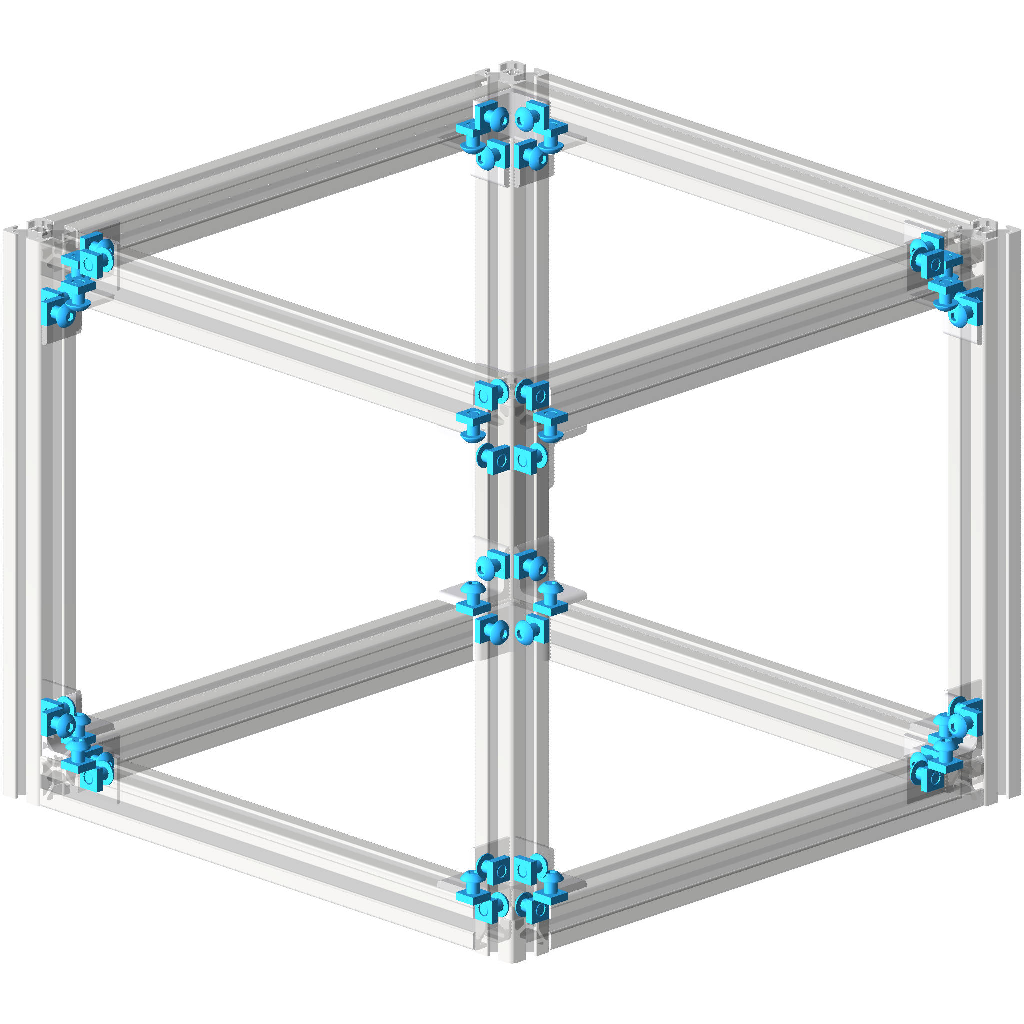
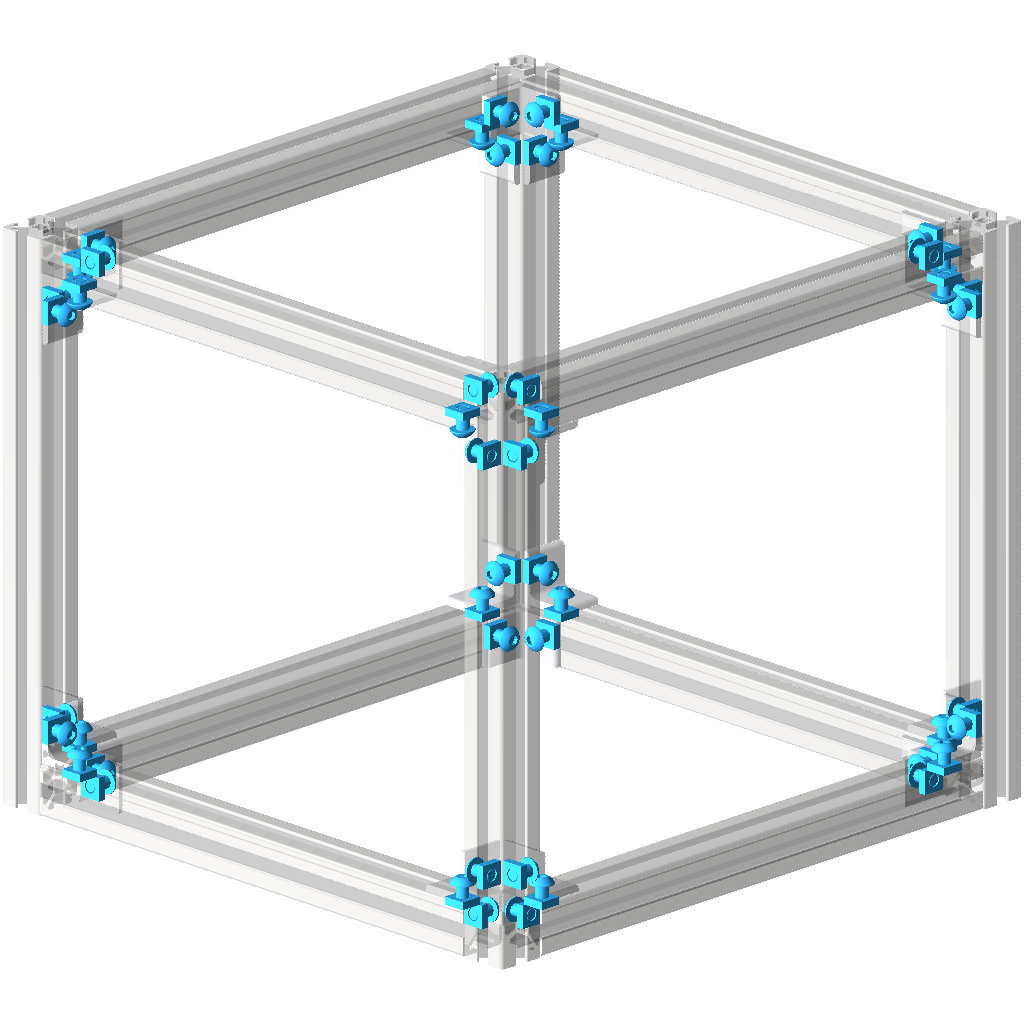
More details and parts

Changed region(s): [[0.0, 0.0312, 1.0, 0.9688], [0.7188, 0.7812, 0.8438, 0.8438], [0.625, 0.8125, 0.75, 0.875]]

diff --git a/content/posts/2025/09/index.md b/content/posts/2025/09/index.md
@@ -25,11 +25,21 @@ I only have space for 4U, so a [DeskPi Rack Mate T0](https://deskpi.com/products
 
 {{< figure src="20250814_001.jpg" width="74%" loading="lazy" alt="deskpi rackmate t0" attr="DeskPi RackMate T0 from DeskPi" attrlink="https://deskpi.com/products/deskpi-rackmate-t1-rackmount-10-inch-4u-server-cabinet-for-network-servers-audio-and-video-equipment">}}
 
-So naturally, I over-engineered, and over-paid to build, my own rack 🤷.
+So naturally, I over-engineered (and over-paid for), my own rack 🤷.
+
+# Standards
+
+As I [discussed in the past](/2022/09/homelab-10-mini-rack-shelves/#10-inch-racks), there is no standard for mini-racks. They're generally half the size of a 19-inch rack, which would put them at 9.5-inches, but people actually refer to them as 10-inch racks, or half-racks.
+
+Also, in my last post, I said:
+
+> I know that the [imperial system](https://en.wikipedia.org/wiki/Imperial_units) of units is inferior to the metric system, but these are 10-inch racks, not 254mm racks :man_shrugging:
+
+Well, I'm eating my words now. Because of the small dimensions I'm working with, I decided to do all of my measurements in millimeters. With that said, the holes on the [shelves](https://deskpi.com/products/deskpi) I'm using are 235mm center-to-center, so that was my basis for the mini-rack.
 
 # Design
 
-I've been seeing a ton of racks made of extruded aluminum. I guess I'm late on this, but extruded aluminum is apparently very heavily used in the 3D printing world. It's really lightweight, easy to work with, has exact dimensions, and has slots on all four sides to connect pieces, accessories, etc... The different sizes are named for their dimensions (below are examples of 20x20mm and 20x40mm).
+I've been seeing a ton of racks made of extruded aluminum. I guess I'm late on this, but extruded aluminum is like Lego for adults. It's really lightweight, easy to work with, has exact dimensions, and has slots on all four sides to connect pieces, accessories, etc... The different sizes are named for their dimensions (below are examples of 20x20mm and 20x40mm, respectively).
 
 {{< figure src="20250814_002.jpg" width="25%" loading="lazy" alt="20x20 aluminum" attr="20x20 aluminum from 8020.net" attrlink="https://8020.net/20-2020.html">}}
 
@@ -37,9 +47,9 @@ I've been seeing a ton of racks made of extruded aluminum. I guess I'm late on t
 
 From what I can tell, [8020.net](https://8020.net) is the biggest and/or most popular distributor, though you can get this stuff cheap on Amazon and AliExpress. What's nice is that since aluminum is a relatively soft metal, you can cut it with a bandsaw or chop saw. I don't have one of those, but 8020.net will cut it for you (for a small fee).
 
-I decided on 20x20 aluminum rails. It's relatively small, but I have seen rails as small as 15x15 or 10x10. For me, buying everything from 8020.net was the easiest, and 20x20 is the smallest size they have.
+I decided on 20x20 aluminum rails. It's relatively small, but I have seen rails as small as 15x15 or 10x10. For me, buying everything from 8020.net was the easiest, and 20x20 is the smallest size they have. I decided to mount the shelves directly to the aluminum rails (in-place of [traditional rack rails](https://www.penn-elcom.com/us/4u-rack-rail-with-full-holes-0-08in-thick-r0863-2mm-04)).
 
-Also, 8020.net has a 3D builder called [IdeaBuilder](https://ideabuilder.io/) that lets you model almost anything in their catalog in 3D. You can save your model to the cloud or a local file, and then upload the Bill of Materials (BoM) to their site to get a list of all the parts you need. Below is what I built in just a few minutes in IdeaBuilder.
+Also, 8020.net has a 3D builder called [IdeaBuilder](https://ideabuilder.io/) that lets you model almost anything in their catalog in 3D. You can save your model to the cloud or a local file, and then upload the Bill of Materials (BoM) to your cart to get a list of all the parts you need. Below is what I built in just a few minutes in IdeaBuilder.
 
 {{< img src="20250814_004.png" alt="IdeaBuilder" >}}
 
@@ -55,44 +65,49 @@ If you're interested, here is the JSON file that you can upload to IdeaBuilder t
 
 # Presenting: The mini-rack, v2
 
-As I [discussed in the past](/2022/09/homelab-10-mini-rack-shelves/#10-inch-racks), there is no standard for mini-racks. They're generally half the size of a 19-inch rack, which would put them at 9.5-inches, but people actually refer to them as 10-inch racks, or half-racks.
-
 ## Pictures
 
 TODO: add pictures here
 
 ## Parts
 
-Below are the parts that are part of the IdeaBuilder 3D design.
+Below are the parts that are part of my IdeaBuilder 3D design (i.e., this is what you get if you upload the JSON file).
 
-| Part                         | Link                                            | Quantity | Price (per unit) | Total price       | Comments     |
-|------------------------------|-------------------------------------------------|----------|------------------|-------------------|--------------|
-| 20x20 aluminum               | [8020.net](https://8020.net/20-2020.html)       | 4        | $5.16            | $20.64            | Cut to 220mm |
-| 20x20 aluminum               | [8020.net](https://8020.net/20-2020.html)       | 8        | $5.21            | $41.68            | Cut to 225mm |
-| 2-hole corner bracket        | [8020.net](https://8020.net/20-4119.html)       | 24       | $4.45            | $106.80           |              |
-| M5 x 8.00mm screw            | [8020.net](https://8020.net/11-5308.html)       | 48       | $0.51            | $24.48            |              |
-| M5 T-nut                     | [8020.net](https://8020.net/14122.html)         | 48       | $0.35            | $16.80            |              |
+| Part                            | Link                                            | Quantity | Price (per unit) | Total price       | Comments     |
+|---------------------------------|-------------------------------------------------|----------|------------------|-------------------|--------------|
+| 20x20 aluminum                  | [8020.net](https://8020.net/20-2020.html)       | 4        | $5.29            | $21.16            | Cut to 220mm |
+| 20x20 aluminum                  | [8020.net](https://8020.net/20-2020.html)       | 4        | $5.35            | $21.40            | Cut to 225mm |
+| 20x20 aluminum                  | [8020.net](https://8020.net/20-2020.html)       | 4        | $5.24            | $20.96            | Cut to 215mm |
+| 2-hole corner bracket           | [8020.net](https://8020.net/20-4119.html)       | 24       | $4.67            | $112.08           |              |
+| M5 x 8.00mm screw               | [8020.net](https://8020.net/11-5308.html)       | 48       | $0.51            | $24.48            |              |
+| M5 T-nut                        | [8020.net](https://8020.net/14122.html)         | 48       | $0.35            | $16.80            |              |
+|                                 |                                                 |          | Total            | $216.88           |              |
 
 I also added some other parts that I wasn't able to model in IdeaBuilder. These are going to be used to secure the shelves (in-place of [traditional rack rails](https://www.penn-elcom.com/us/4u-rack-rail-with-full-holes-0-08in-thick-r0863-2mm-04)).
 
-| Part                         | Link                                            | Quantity | Price (per unit) | Total price       | Comments     |
-|------------------------------|-------------------------------------------------|----------|------------------|-------------------|--------------|
-| M5 T-nut (25-pack)           | [8020.net](https://8020.net/13084.html)         | 1        | $46.50           | $46.50            |              |
-| M5 x 10.00mm screw (25-pack) | [8020.net](https://8020.net/11-5510.html)       | 1        | $12.75           | $12.75            |              |
+| Part                            | Link                                                                                            | Quantity | Price (per unit) | Total price       | Comments        |
+|---------------------------------|-------------------------------------------------------------------------------------------------|----------|------------------|-------------------|-----------------|
+| M5 spring T-nut (20-pack)       | [Amazon](https://www.amazon.com/uxcell-Elastic-Aluminum-Extrusion-Profile/dp/B07KWV51VG)        | 1        | $9.79            | $9.79             | For the shelves |
+| M5 washers (75-pack)            | [Amazon](https://www.amazon.com/uxcell-Stainless-Washers-Thickness-Construction/dp/B0F9KN21P1)  | 1        | $8.07            | $8.07             | For the shelves |
+| M5 x 8.00mm hex screw (50-pack) | [Amazon](https://www.amazon.com/Alloy-Steel-Socket-Screws-Black/dp/B015A34BUQ)                  | 1        | $8.89            | $8.89             | For the shelves |
+| Inside corner bracket (10-pack) | [Amazon](https://www.amazon.com/uxcell-Interior-Connector-Aluminum-Extrusion/dp/B07VP59DY5)     | 1        | $9.07            | $9.07             | For the shelves |
+| 20x20 endcaps (10-pack)         | [Amazon](https://www.amazon.com/uxcell-Extruded-Aluminum-European-Extrusion/dp/B0DM5Q7FDN)      | 1        | $5.99            | $5.99             |                 |
+|                                 |                                                                                                 |          | Total            | $41.81            |                 |
 
-I also had these parts laying around from previous rack builds, but I'm adding them here for transparency.
+In total, that's $258.69 in new parts for the rack and hardware.
 
-| Part                         | Link                                                                                       | Quantity | Price (per unit) | Total price       | Comments     |
-|------------------------------|--------------------------------------------------------------------------------------------|----------|------------------|-------------------|--------------|
-| 1U shelves (2-pack)          | [DeskPi](https://deskpi.com/products/deskpi)                                               | 2        | $38.98           | $77.96            |              |
-| 1U patch panel (12-port)     | [Amazon](https://www.amazon.com/uxcell-12-Port-Keystone-Rackmount-Shielded/dp/B0744XHTK3)  | 1        | $25.39           | $25.39            |              |
+I also added these 1U parts (I already had these, so I'm not counting them in the total price).
 
-So in total, it's $269.65 for the rack with hardware, $103.35 for the shelves and patch panel (which I already had), which comes out to $373.00.
+| Part                         | Link                                                                                               | Quantity | Price (per unit) | Total price       | Comments     |
+|------------------------------|----------------------------------------------------------------------------------------------------|----------|------------------|-------------------|--------------|
+| 1U shelves (2-pack)          | [DeskPi](https://deskpi.com/products/deskpi)                                                       | 2        | $38.98           | $77.96            |              |
+| 1U patch panel (12-port)     | [Amazon](https://www.amazon.com/NavePoint-12-Port-Modular-Patch-Panel/dp/B0CH1H22VY)               | 1        | $27.59           | $27.59            |              |
+| Cat6A couplers (12-pack)     | [Amazon](https://www.amazon.com/trueCABLE-Keystone-Unshielded-Performance-Compliant/dp/B0916BNH9B) | 1        | $22.11           | $22.11            |              |
+|                              |                                                                                                    |          | Total            | $127.66           |              |
 
-There are definitely cheaper ways to do this. For example, each cut is $2.87, so I'm already spending $34.44 on cuts because I don't have a saw. It would have also been way cheaper to buy the aluminum on Amazon (but I'd also need to cut it myself).
 
 # Conclusion
 
-
+What would I do differently next time? I would definitely not have spent so much money. I would use IdeaBuilder to create the 3D model, but purchase the parts from a different vendor. For example, each cut from 8020.net is $2.87, so I'm already spending $34.44 on cuts because I don't have a saw. For basically the same price, I would have been able to purchase a [mini cut-off saw](https://www.harborfreight.com/09-amp-2-in-mini-cut-off-saw-70478.html), purchase 20x20 aluminum in bulk from Amazon, then cut it myself. Also, I don't know why the corner brackets from 8020.net were so expensive. I would have definitely shopped around more for [cheaper alternatives](https://us.misumi-ec.com/vona2/detail/110300438930/?ProductCode=HBLSS5).
 
 \-Logan

diff --git a/layouts/shortcodes/series/s_minirack.md b/layouts/shortcodes/series/s_minirack.md
@@ -1,5 +1,6 @@
 Hey! Listen! This post is part of a series on 10" mini-racks. Check them all out!
 | Date       | URL                                                                      | Part                         |
 |------------|--------------------------------------------------------------------------|------------------------------|
+| 2025-09-01 | [Homelab 10" mini-rack v2 ](/2025/09/homelab-10-mini-rack-v2/)           | v2 of the rack               |
 | 2022-09-16 | [Homelab 10" mini-rack shelves ](/2022/09/homelab-10-mini-rack-shelves/) | Comparison of 10" shelves    |
 | 2021-01-05 | [Homelab 10" mini-rack ](/2021/01/homelab-10-mini-rack/)                 | Initial post about mini-rack |
